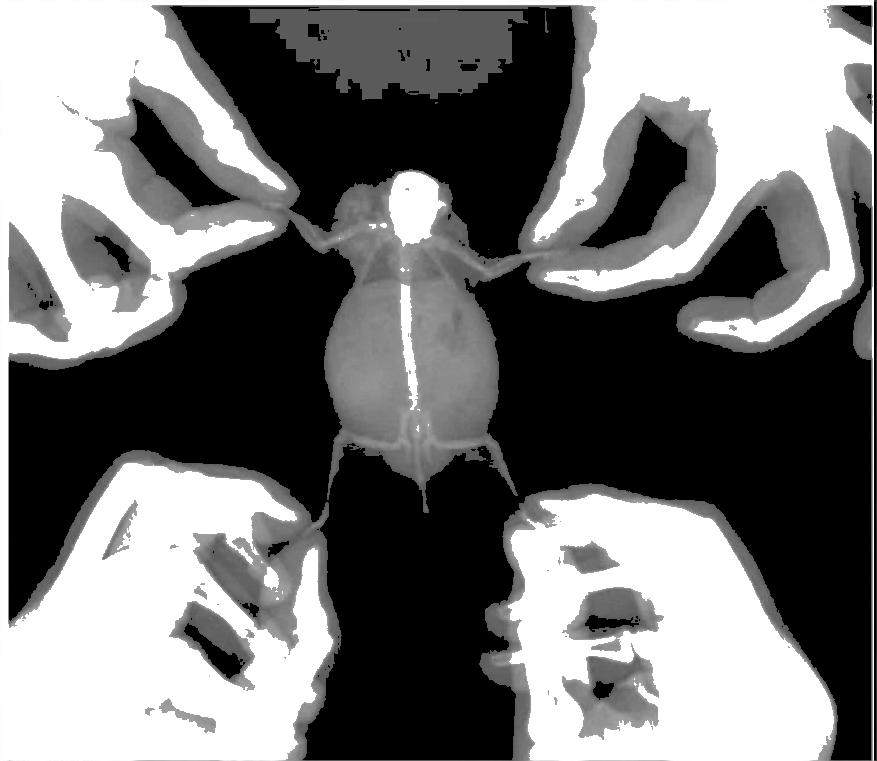
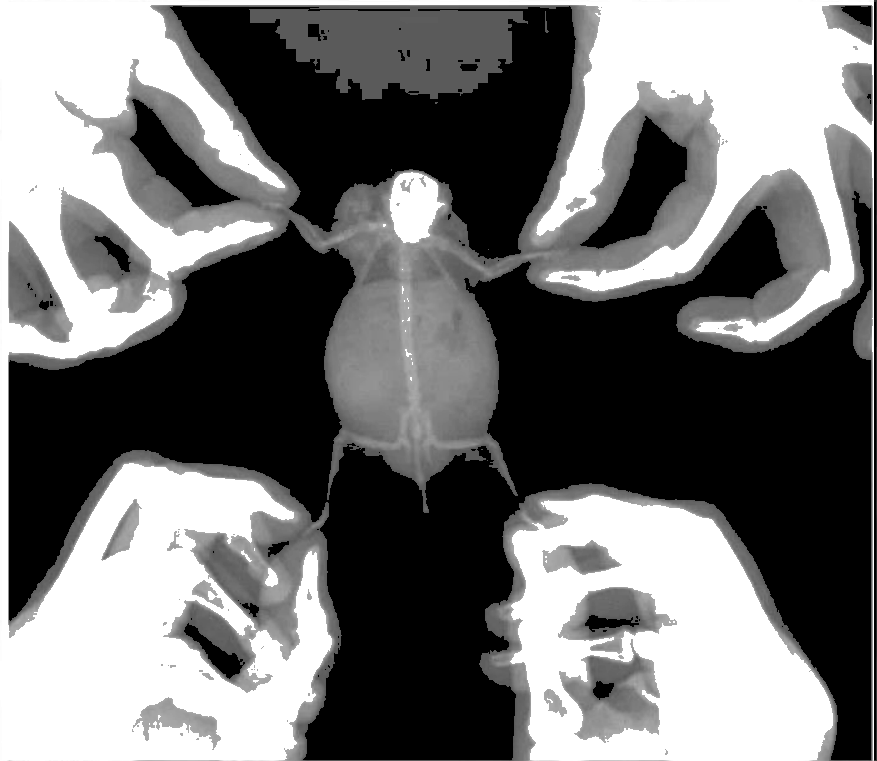
1

diff --git a/main.c b/main.c
@@ -9,7 +9,7 @@
 #include "stb_image_write.h"
 
 #define BLACK 90
-#define WHITE 160
+#define WHITE 170
 
 unsigned char* color_to_grey(unsigned char* Image, int w, int h, int n){
 	int i, k = 0;
